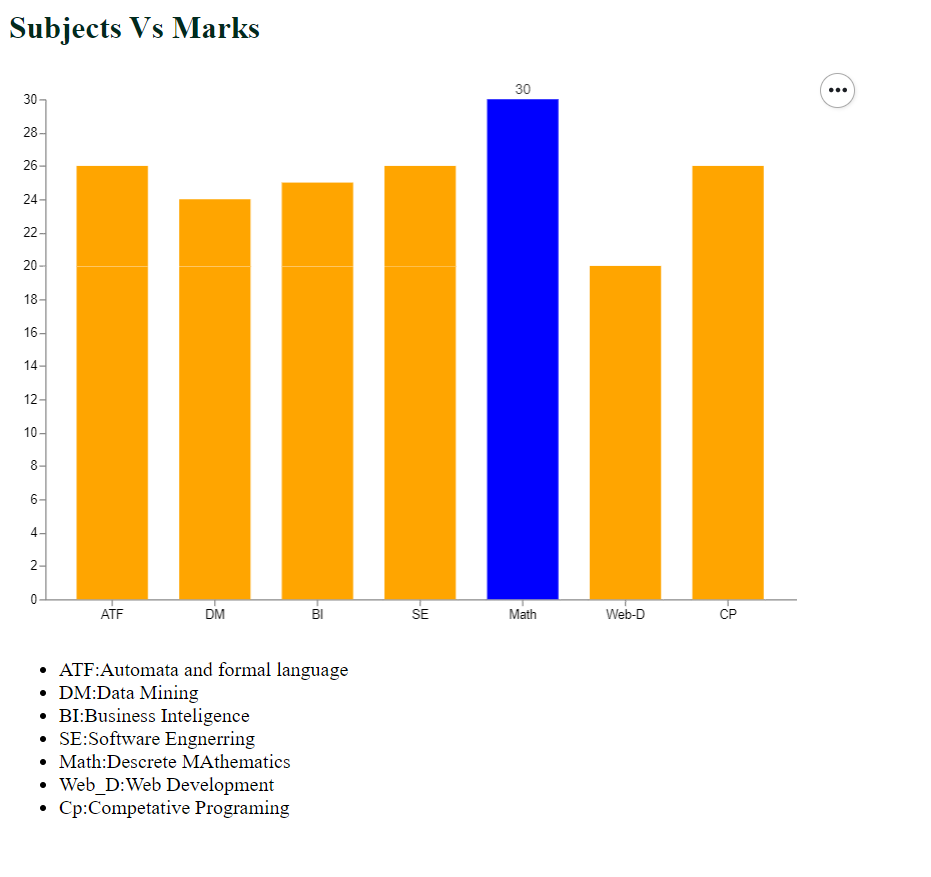
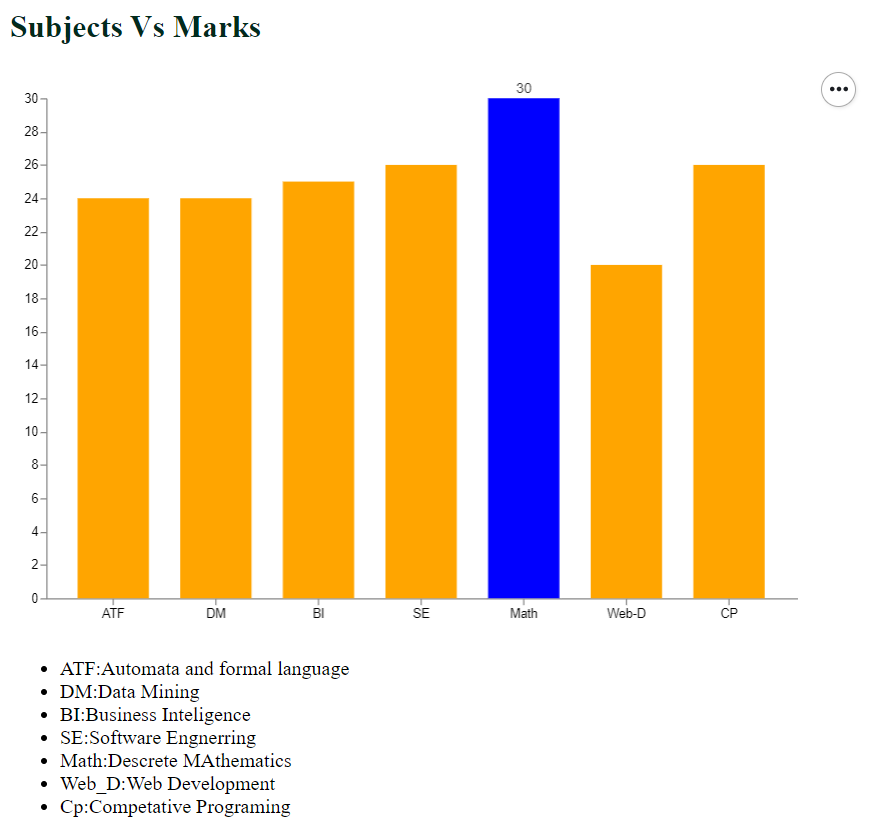
vega

Changed region(s): [[0.0305, 0.0931, 0.8837, 0.9928], [0.0, 0.0, 0.3047, 0.0621], [0.8837, 0.0931, 0.9752, 0.1241]]

diff --git a/VisualizationByVega/SemesterMarks.html b/VisualizationByVega/SemesterMarks.html
@@ -28,7 +28,7 @@
     {
       "name": "table",
       "values": [
-        {"category": "ATF", "marks": 26},
+        {"category": "ATF", "marks": 24},
         {"category": "DM", "marks": 24},
         {"category": "BI", "marks": 25},
         {"category": "SE", "marks": 26},
